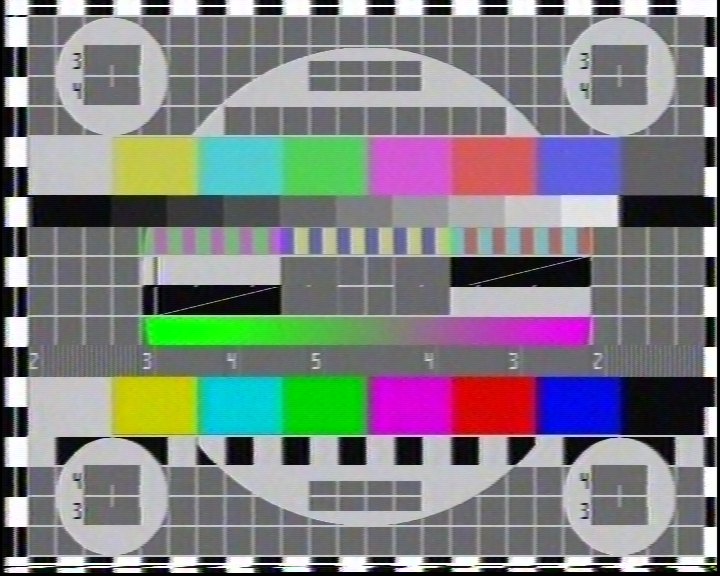
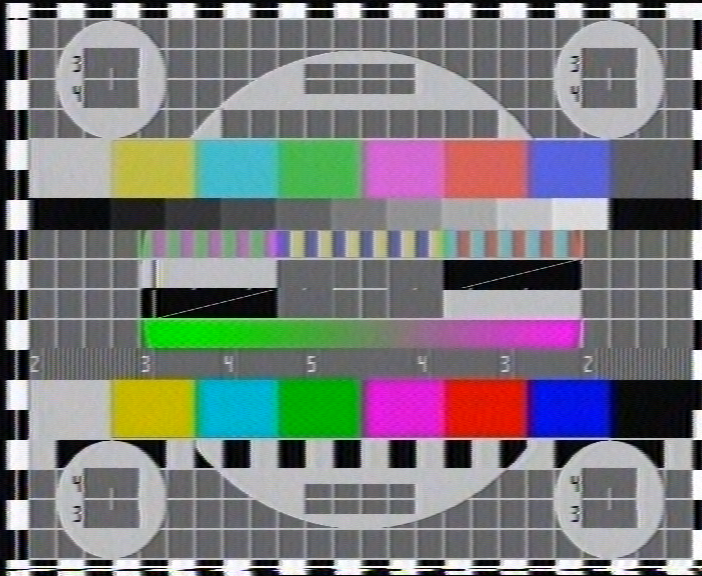
Update vhs decode entry with different samples (higher bandwidth & proper resampling)

diff --git a/VHS_DECODE/README.md b/VHS_DECODE/README.md
@@ -9,12 +9,11 @@ Test tape was recorded with **BM Intensity Pro -> JVC HR-S7700EU (Y/C)** from Da
 
 <hr>
 
-vhs decode setup: **Philips VR355 -> CX card (40MHz crystal) at 8bit/20Msps**
+vhs decode setup: **Philips VR355 -> CX card (40MHz crystal) at 8bit/18MSps**
 
-vhs decode configuration:  `--y_comb --use_saved_levels -f 20 -t 6 --tf vhs --no_resample --nld --recheck_phase`
+vhs decode configuration:  `--y_comb -f 18 -t 3 --tf vhs --no_resample --recheck_phase`, Transform PAL 2D at 0.01 is used with luma NR disabled
 
-> [!NOTE]
-> These are interlaced exported frames from ld-analyse (Transform PAL 2D at 0.01 is used with luma NR disabled)
+The rhombus pattern on color squares is caused by impedance mismatch between head preamp and capture card. I'm planning to make a separate buffer amp soon
 
 <hr>
 
@@ -26,7 +25,7 @@ vhs decode configuration:  `--y_comb --use_saved_levels -f 20 -t 6 --tf vhs --no
 
 ### RES+COL
 
-![RES+COL.png](RES%2BCOL.png)
+![DECODE_RES+COL.png](DECODE_RES%2BCOL.png)
 
 <hr>
 
